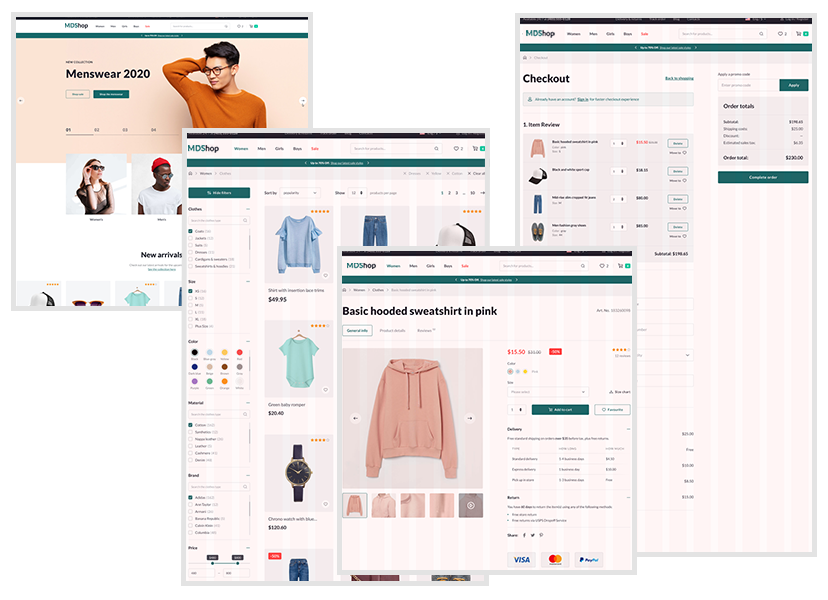
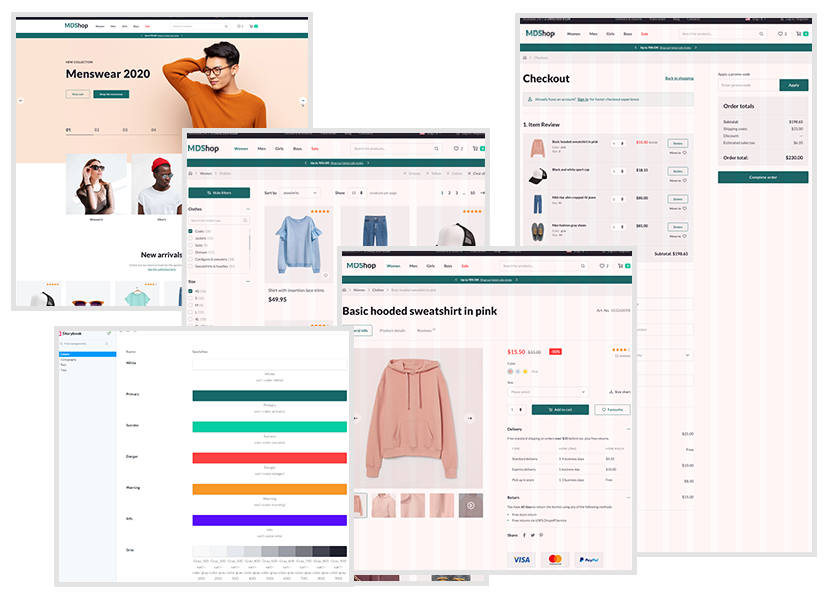
fix: adding colors stories

Changed region(s): [[0.0604, 0.54, 0.4529, 0.99]]

diff --git a/README.md b/README.md
@@ -56,7 +56,7 @@ $ npm install
 $ npm run dev
 ```
 
-Storybook on [http://localhost:5173](http://localhost:5173)
+Run dev server on [http://localhost:5173](http://localhost:5173)
 
 ### Run storybook
 
@@ -64,7 +64,7 @@ Storybook on [http://localhost:5173](http://localhost:5173)
 $ npm run sb
 ```
 
-Run dev server on [http://localhost:6006](http://localhost:6006)
+Storybook on [http://localhost:6006](http://localhost:6006)
 
 ### Build
 
